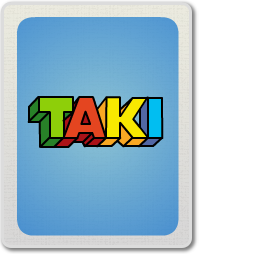
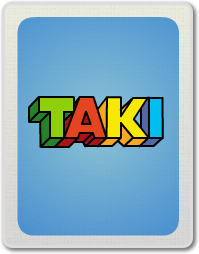
add back-card-mid.png

diff --git a/public/assets/icomoon/demo.html b/public/assets/icomoon/demo.html
@@ -6,7 +6,7 @@
     <meta name="description" content="An Icon Font Generated By IcoMoon.io">
     <meta name="viewport" content="width=device-width, initial-scale=1">
     <link rel="stylesheet" href="demo-files/demo.css">
-    <link rel="stylesheet" href="style.scss"></head>
+    <link rel="stylesheet" href="style.css"></head>
 <body>
     <div class="bgc1 clearfix">
         <h1 class="mhmm mvm"><span class="fgc1">Font Name:</span> icomoon <small class="fgc1">(Glyphs:&nbsp;21)</small></h1>

diff --git a/public/index.scss b/public/index.scss
@@ -2,7 +2,7 @@
 @import "common/normalize";
 @import "common/common-class";
 @import "common/buttons";
-@import "assets/icomoon/style";
+@import "assets/icomoon/style.css";
 @import "common/animate.min";
 @import "common/animations";
 @import url('https://fonts.googleapis.com/css?family=Slackey');

diff --git a/public/directives/card.scss b/public/directives/card.scss
@@ -20,7 +20,7 @@ tk-card {
 
   &:after{
     content:'';
-    background-image: url("../assets/cards/card0068-mid.png");
+    background-image: url("../assets/back-card-mid.png");
     position: absolute;
     top:0;
     left: 0;right: 0;
